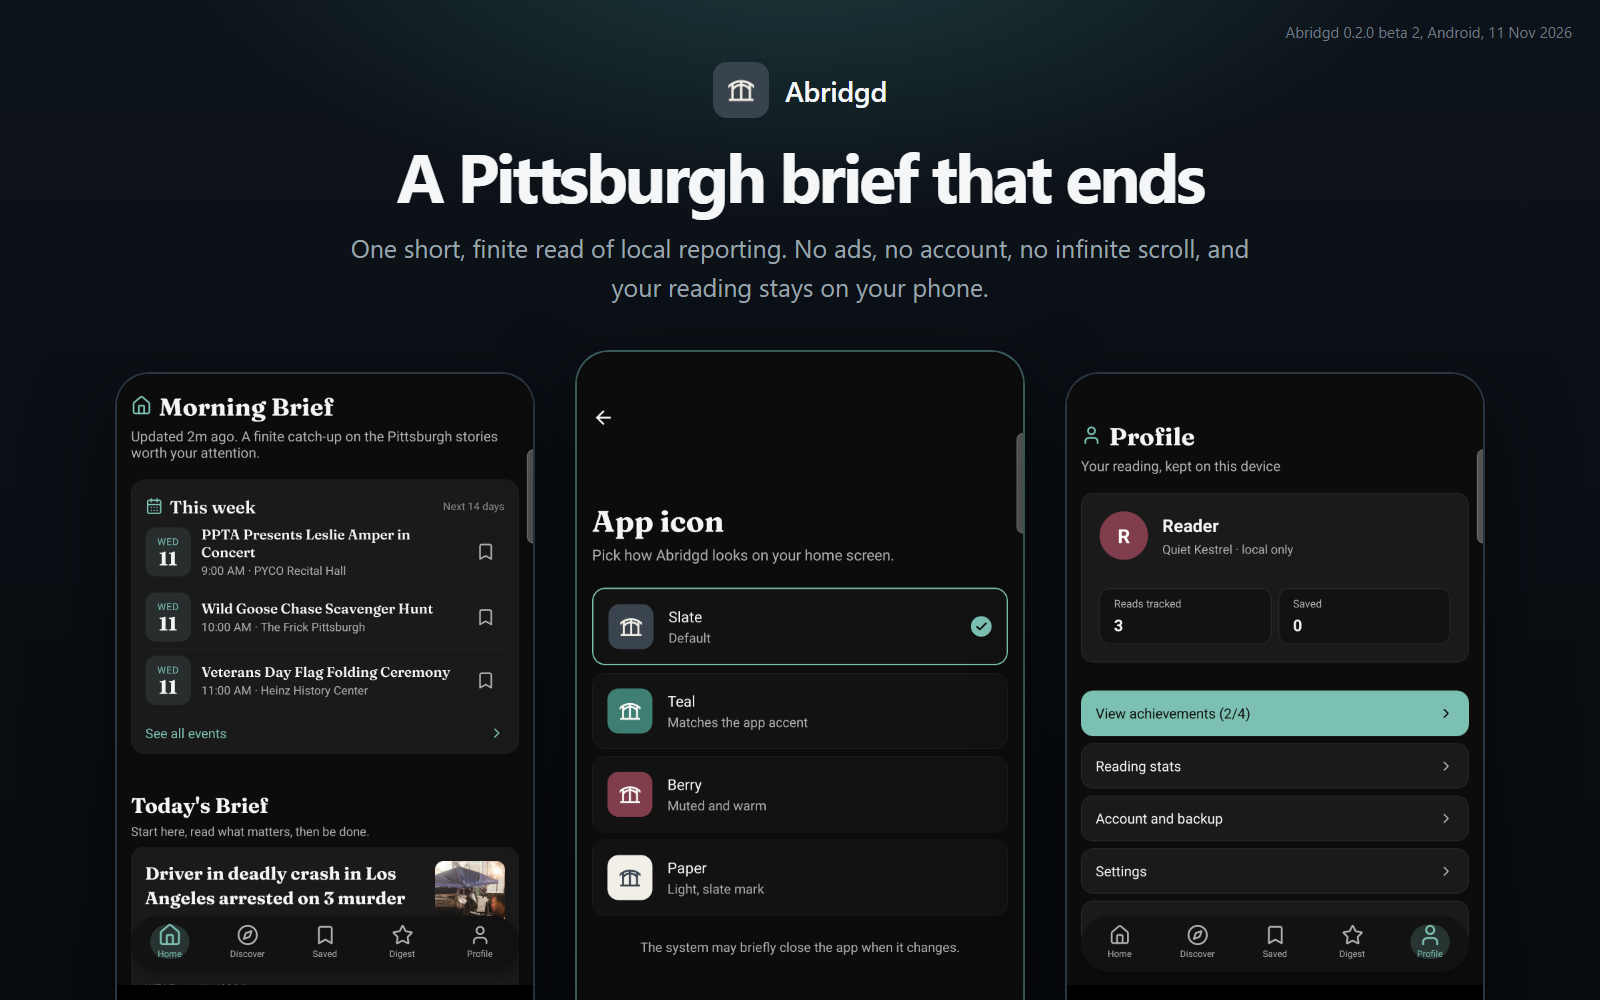
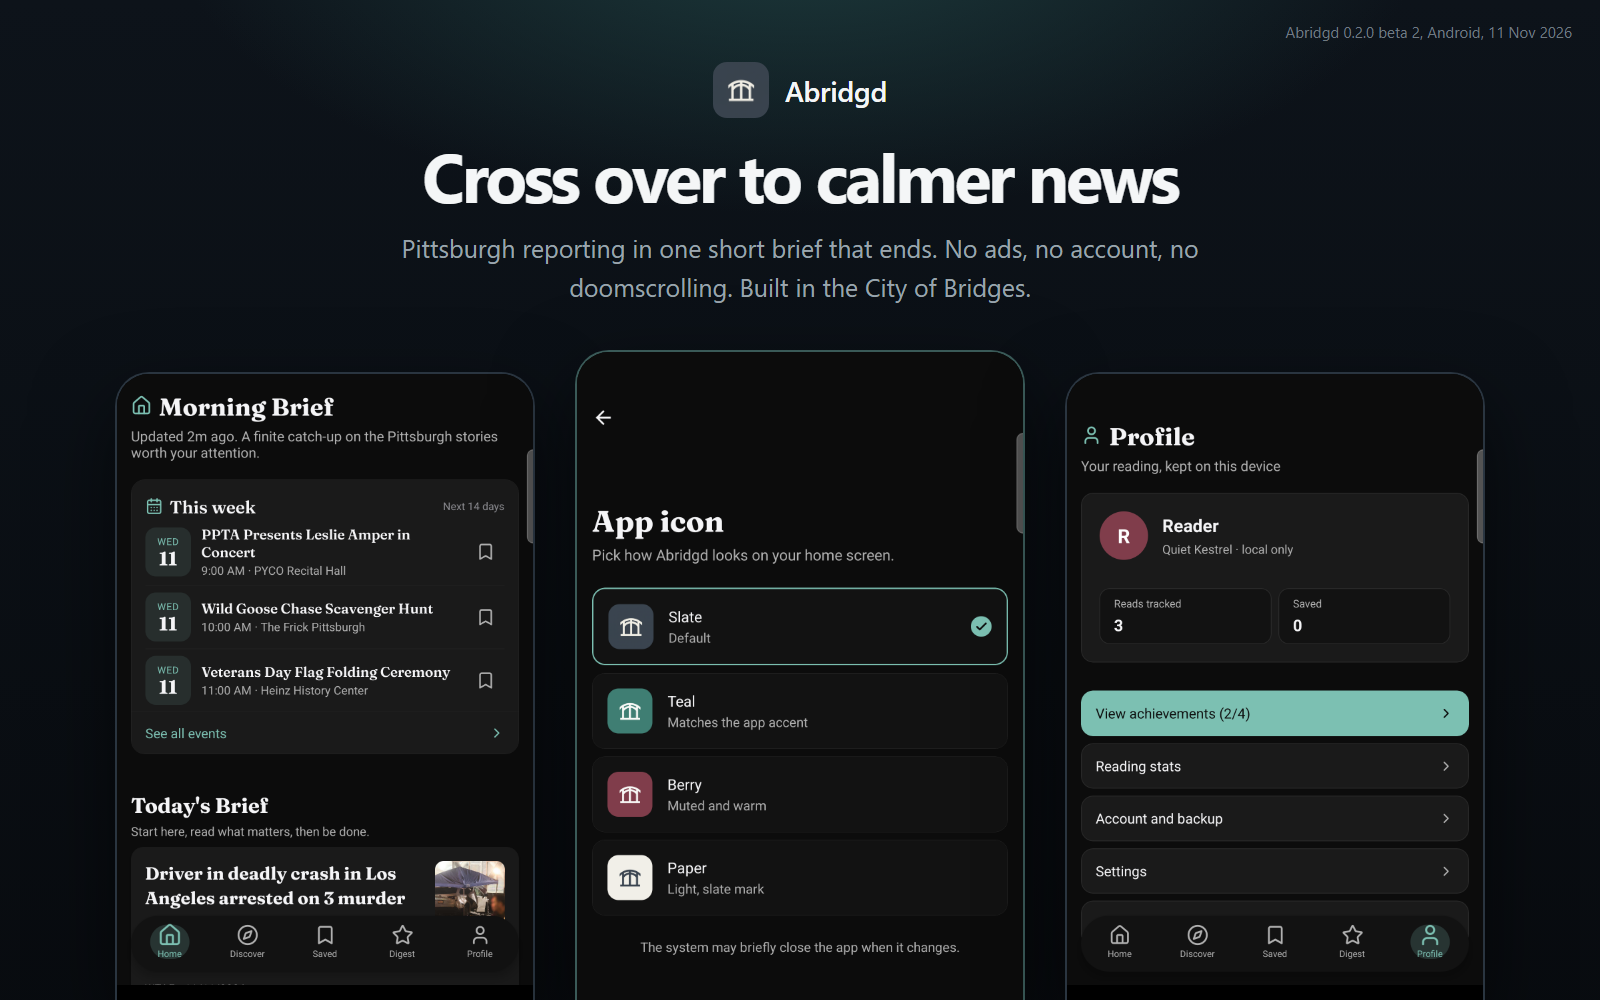
docs: rewrite beta 2 marketing image copy

Changed region(s): [[0.2188, 0.155, 0.7812, 0.31]]

diff --git a/docs/marketing/images/src/split.html b/docs/marketing/images/src/split.html
@@ -21,12 +21,12 @@ li svg{flex:none}
 </style>
 <div class="l">
 <div class="brand"><img src="icon.png"><span>Abridgd</span></div>
-<h1>The Pittsburgh news brief that ends</h1>
-<p class="sub">Free for Android. No ads, no account, no infinite scroll.</p>
+<h1>Cross over to calmer news</h1>
+<p class="sub">Abridgd bridges you to Pittsburgh news without the anxiety. Free, with no ads.</p>
 <ul>
-<li><svg width="34" height="34" viewBox="0 0 24 24" fill="none" stroke="#8abfb3" stroke-width="2.4" stroke-linecap="round" stroke-linejoin="round"><path d="M5 12.5l4.5 4.5L19 7.5"/></svg>One finite brief, then you are done</li>
-<li><svg width="34" height="34" viewBox="0 0 24 24" fill="none" stroke="#8abfb3" stroke-width="2.4" stroke-linecap="round" stroke-linejoin="round"><path d="M5 12.5l4.5 4.5L19 7.5"/></svg>Content notes before heavy stories</li>
-<li><svg width="34" height="34" viewBox="0 0 24 24" fill="none" stroke="#8abfb3" stroke-width="2.4" stroke-linecap="round" stroke-linejoin="round"><path d="M5 12.5l4.5 4.5L19 7.5"/></svg>Your reading stays on your phone</li>
+<li><svg width="34" height="34" viewBox="0 0 24 24" fill="none" stroke="#8abfb3" stroke-width="2.4" stroke-linecap="round" stroke-linejoin="round"><path d="M5 12.5l4.5 4.5L19 7.5"/></svg>One short brief, then you are done</li>
+<li><svg width="34" height="34" viewBox="0 0 24 24" fill="none" stroke="#8abfb3" stroke-width="2.4" stroke-linecap="round" stroke-linejoin="round"><path d="M5 12.5l4.5 4.5L19 7.5"/></svg>A heads-up before heavy stories</li>
+<li><svg width="34" height="34" viewBox="0 0 24 24" fill="none" stroke="#8abfb3" stroke-width="2.4" stroke-linecap="round" stroke-linejoin="round"><path d="M5 12.5l4.5 4.5L19 7.5"/></svg>No account. Your reading stays on your phone</li>
 </ul>
 </div>
 <div class="ph a"><img src="reader.png"></div>

diff --git a/docs/marketing/images/src/card.html b/docs/marketing/images/src/card.html
@@ -16,8 +16,8 @@ p.sub{text-align:center;color:var(--muted);font-size:25px;line-height:1.55;margi
 .cap{position:absolute;right:28px;top:22px;font-size:15px;color:#6f7a82}
 </style>
 <div class="brand"><img src="icon.png"><span>Abridgd</span></div>
-<h1>A Pittsburgh brief that ends</h1>
-<p class="sub">One short, finite read of local reporting. No ads, no account, no infinite scroll, and your reading stays on your phone.</p>
+<h1>Cross over to calmer news</h1>
+<p class="sub">Pittsburgh reporting in one short brief that ends. No ads, no account, no doomscrolling. Built in the City of Bridges.</p>
 <div class="row">
 <div class="ph"><img src="home.png"></div>
 <div class="ph mid"><img src="appicon.png"></div>
